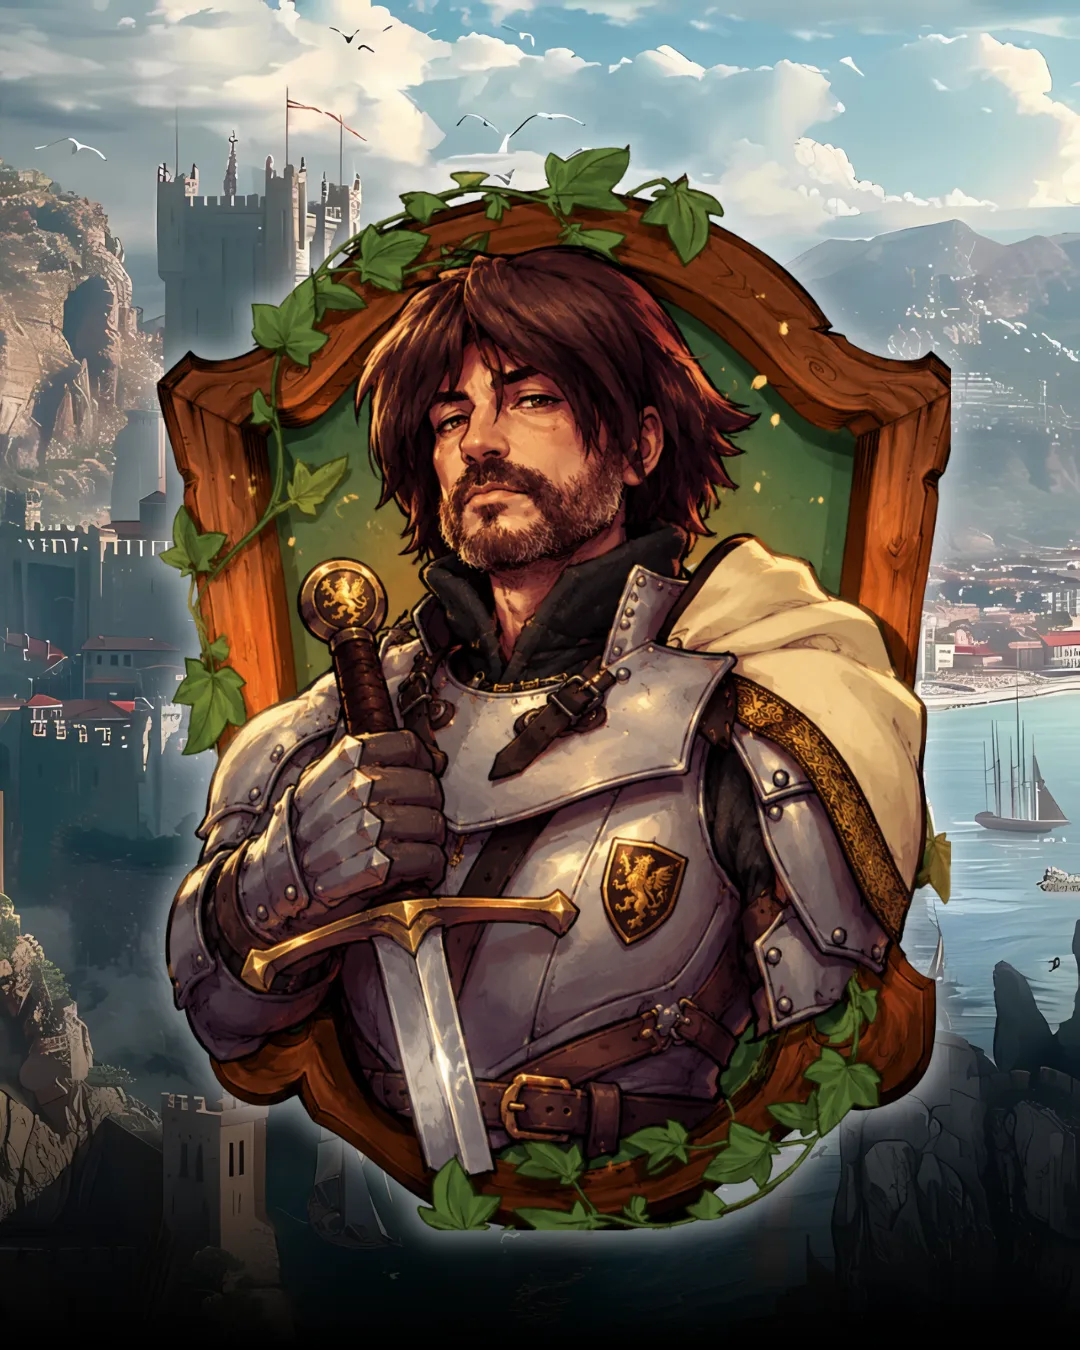
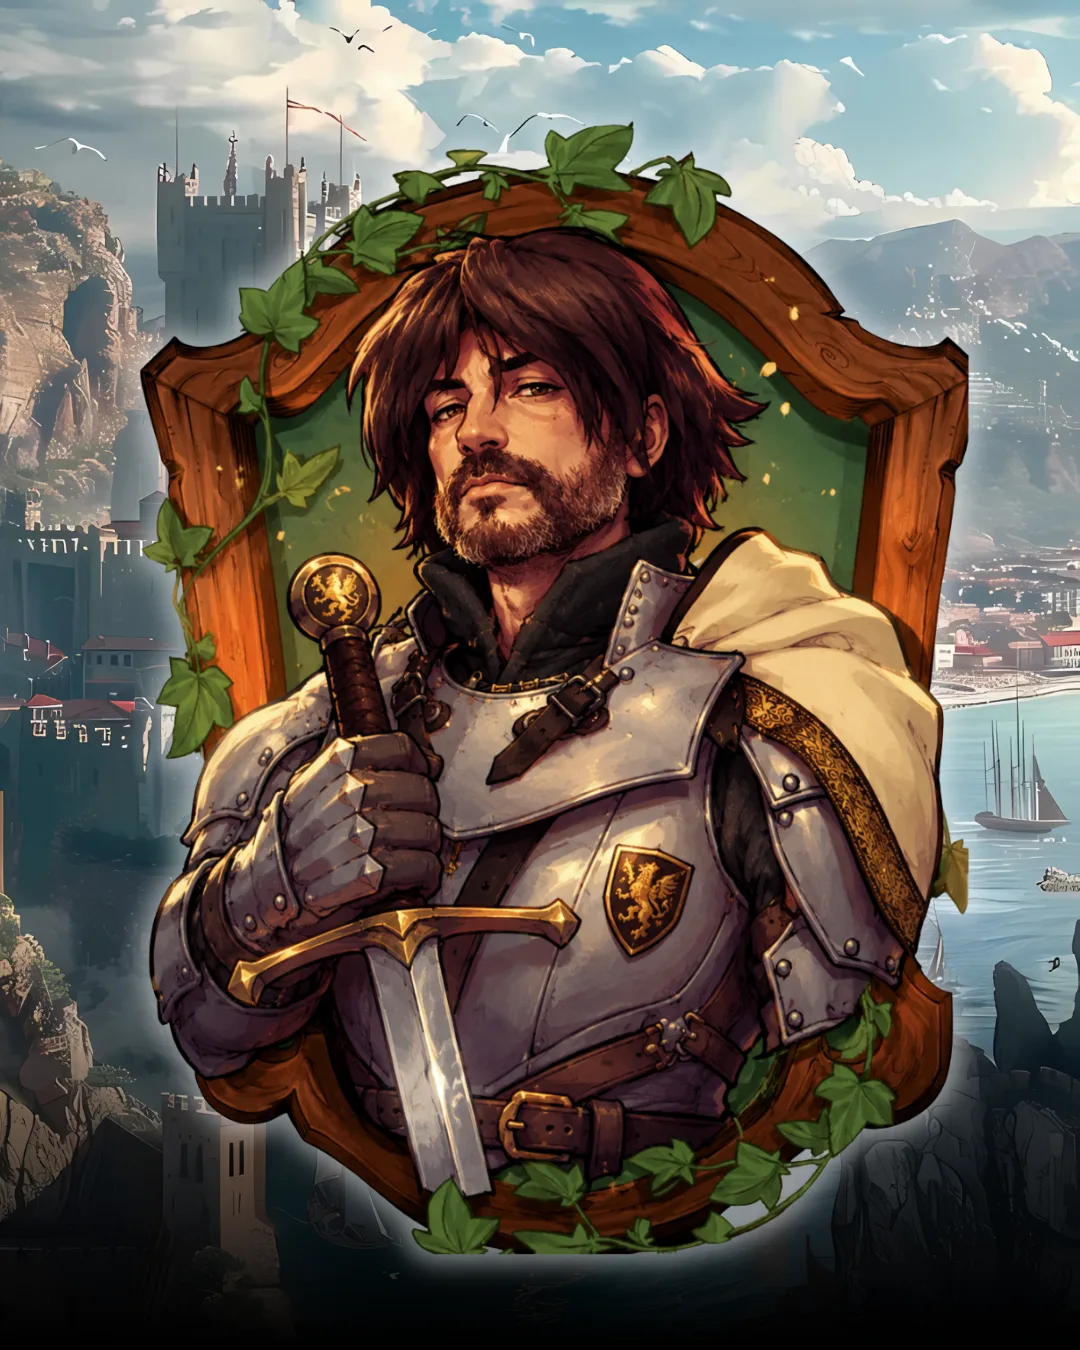
add switch theme

diff --git a/css/styles.css b/css/styles.css
@@ -3,6 +3,7 @@
 
 /* ===== Design tokens — tema light "pergamena" ===== */
 :root {
+  color-scheme: light;
   --bg: #f6f1e7;
   --surface: #fffdf8;
   --surface-2: #f1eadb;
@@ -15,7 +16,34 @@
   --accent-soft: rgba(245, 73, 0, 0.1);
   --shadow-sm: 0 2px 8px rgba(59, 47, 36, 0.07);
   --shadow-md: 0 10px 28px rgba(59, 47, 36, 0.13);
+  /* superfici "vetro" semitrasparenti (card descrizione, frecce, toggle) */
+  --glass: rgba(255, 253, 248, 0.85);
+  --glass-strong: rgba(255, 253, 248, 0.92);
+  --glass-border: rgba(255, 255, 255, 0.65);
+  /* dissolvenza dell'hero verso il colore pagina */
+  --hero-fade: rgba(246, 241, 231, 0.55);
   --ease-spring: cubic-bezier(0.2, 0.8, 0.2, 1);
+}
+
+/* ===== Design tokens — tema dark "taverna" ===== */
+[data-theme="dark"] {
+  color-scheme: dark;
+  --bg: #1d1812;
+  --surface: #28211a;
+  --surface-2: #322a20;
+  --border: #443928;
+  --border-strong: #5a4b33;
+  --text: #ece3d3;
+  --muted: #a8987f;
+  --accent: #ff5a14;
+  --accent-deep: #ff7a3d;
+  --accent-soft: rgba(255, 90, 20, 0.14);
+  --shadow-sm: 0 2px 8px rgba(0, 0, 0, 0.35);
+  --shadow-md: 0 10px 28px rgba(0, 0, 0, 0.5);
+  --glass: rgba(40, 33, 26, 0.85);
+  --glass-strong: rgba(40, 33, 26, 0.92);
+  --glass-border: rgba(255, 255, 255, 0.12);
+  --hero-fade: rgba(29, 24, 18, 0.6);
 }
 
 /* Reset */
@@ -154,6 +182,9 @@ html {
 
 body {
   background: var(--bg);
+  transition:
+    background-color 0.3s ease,
+    color 0.3s ease;
 }
 
 body,
@@ -232,6 +263,41 @@ h6 {
   transform: none;
 }
 
+/* ===== Toggle tema light/dark (ancorato all'header) ===== */
+.theme-toggle {
+  position: absolute;
+  top: 14px;
+  right: 14px;
+  z-index: 3; /* sopra immagine, velo e .inner dell'header */
+  width: 42px;
+  height: 42px;
+  border-radius: 50%;
+  border: 1px solid var(--border);
+  background: var(--glass-strong);
+  -webkit-backdrop-filter: blur(8px);
+  backdrop-filter: blur(8px);
+  color: var(--text);
+  line-height: 1;
+  cursor: pointer;
+  box-shadow: var(--shadow-sm);
+  transition:
+    transform 0.2s var(--ease-spring),
+    border-color 0.2s ease,
+    background-color 0.3s ease;
+}
+.theme-toggle .icon:before {
+  font-size: 16px;
+  color: var(--accent);
+}
+.theme-toggle:hover,
+.theme-toggle:focus-visible {
+  border-color: rgba(245, 73, 0, 0.5);
+  transform: scale(1.1) rotate(15deg);
+}
+.theme-toggle:active {
+  transform: scale(0.94);
+}
+
 /* ===== Hero header (a tutta larghezza, sfuma nella pagina) ===== */
 #header {
   position: relative;
@@ -263,7 +329,7 @@ h6 {
     to bottom,
     rgba(31, 24, 21, 0.35) 0%,
     rgba(31, 24, 21, 0.15) 45%,
-    rgba(246, 241, 231, 0.55) 82%,
+    var(--hero-fade) 82%,
     var(--bg) 100%
   );
   z-index: 1;
@@ -310,10 +376,10 @@ h6 {
   margin: 1.6em auto 0;
   max-width: 38em;
   color: var(--text);
-  background: rgba(255, 253, 248, 0.85);
+  background: var(--glass);
   -webkit-backdrop-filter: blur(10px);
   backdrop-filter: blur(10px);
-  border: 1px solid rgba(255, 255, 255, 0.65);
+  border: 1px solid var(--glass-border);
   border-radius: 16px;
   padding: 1.1em 1.4em;
   box-shadow: var(--shadow-md);
@@ -398,7 +464,9 @@ ul.actions li .icon:before {
 
 @media (min-width: 737px) {
   ul.actions {
-    grid-template-columns: 1fr 1fr;
+    /* minmax(0, …) ignora il min-content dei testi nowrap: colonne sempre
+       della stessa larghezza, il testo in eccesso va in ellipsis */
+    grid-template-columns: minmax(0, 1fr) minmax(0, 1fr);
   }
   ul.actions hr {
     grid-column: 1 / -1;
@@ -416,6 +484,10 @@ ul.actions li .icon:before {
   }
   /* un bottone rimasto solo dopo un separatore occupa tutta la riga */
   ul.actions hr + li:last-child {
+    grid-column: 1 / -1;
+  }
+  /* il bottone "Installa l'App" occupa sempre tutta la riga */
+  ul.actions #installBtn {
     grid-column: 1 / -1;
   }
 }
@@ -850,7 +922,7 @@ ul.actions li .icon:before {
   height: 40px;
   border-radius: 50%;
   border: 1px solid var(--border);
-  background: rgba(255, 253, 248, 0.92);
+  background: var(--glass-strong);
   color: var(--text);
   line-height: 1;
   cursor: pointer;
@@ -1295,6 +1367,17 @@ hr {
   /* il PNG ha fondo bianco: multiply lo fonde con la pergamena */
   mix-blend-mode: multiply;
 }
+/* in dark si usa la variante bianca del logo (su fondo trasparente) */
+.arcana-logo--dark {
+  display: none;
+  mix-blend-mode: normal;
+}
+[data-theme="dark"] .arcana-logo--light {
+  display: none;
+}
+[data-theme="dark"] .arcana-logo--dark {
+  display: block;
+}
 .arcana-tagline {
   display: flex;
   align-items: center;
@@ -1327,8 +1410,10 @@ hr {
 }
 
 /* ===== Desktop: sidebar fissa a sinistra, contenuto a destra =====
-   Così bottoni e fazioni sono visibili subito, senza scroll. */
-@media (min-width: 981px) {
+   Così bottoni e fazioni sono visibili subito, senza scroll.
+   Da 1100px in su: iPad Pro in verticale (1024px) usa il layout mobile,
+   in orizzontale (1366px) quello desktop. */
+@media (min-width: 1100px) {
   #header {
     position: fixed;
     top: 0;

diff --git a/index.html b/index.html
@@ -7,6 +7,19 @@
     <meta charset="utf-8" />
     <meta name="viewport" content="width=device-width, initial-scale=1" />
 
+    <!-- tema: applicato prima del paint per evitare flash del tema sbagliato -->
+    <script>
+      (function () {
+        var theme = localStorage.getItem("theme");
+        if (theme !== "light" && theme !== "dark") {
+          theme = window.matchMedia("(prefers-color-scheme: dark)").matches
+            ? "dark"
+            : "light";
+        }
+        document.documentElement.dataset.theme = theme;
+      })();
+    </script>
+
     <!-- style -->
     <link rel="preconnect" href="https://fonts.googleapis.com" />
     <link rel="preconnect" href="https://fonts.gstatic.com" crossorigin />
@@ -117,6 +130,14 @@
   </head>
   <body>
     <header id="header">
+      <button
+        id="themeToggle"
+        class="theme-toggle"
+        type="button"
+        aria-label="Cambia tema"
+      >
+        <span class="icon solid fa-moon"></span>
+      </button>
       <div class="inner">
         <div class="image logo">
           <img src="./images/avatar.png" alt="Rhymil – Una Nuova Era" />
@@ -363,9 +384,15 @@
             <h3 class="panel-title">ℹ️ Arcana Domine</h3>
             <div class="arcana-hero">
               <img
-                class="arcana-logo"
+                class="arcana-logo arcana-logo--light"
                 src="./images/ad_logoB.png"
                 alt="Logo Arcana Domine"
+              />
+              <img
+                class="arcana-logo arcana-logo--dark"
+                src="./images/ad_logoW.png"
+                alt="Logo Arcana Domine"
+                loading="lazy"
               />
               <p class="arcana-tagline">Gioco di Ruolo dal Vivo</p>
             </div>
@@ -808,9 +835,14 @@
     <img src="/rhymil_images/_thumb/cavalieri_thalion.webp?v=e6c94c6b" width="110" alt="Thalion Dirk" loading="lazy" />
   </a>
 
-  <a class="is-dead" href="/rhymil_images/_large/cavalieri_alexander.webp?v=e32c9462" title="Alexander" data-name="Alexander" data-owner="Master Lorenzo" data-desc="Capitano">
+  <a class="is-dead" href="/rhymil_images/_large/cavalieri_alexander.webp?v=bcff6f0e" title="Alexander" data-name="Alexander" data-owner="Master Lorenzo" data-desc="Capitano">
     <span class="thumb-name">Alexander</span>
-    <img src="/rhymil_images/_thumb/cavalieri_alexander.webp?v=36e25068" width="110" alt="Alexander" loading="lazy" />
+    <img src="/rhymil_images/_thumb/cavalieri_alexander.webp?v=bf8abac2" width="110" alt="Alexander" loading="lazy" />
+  </a>
+
+  <a class="is-dead" href="/rhymil_images/_large/cavalieri_leonard.webp?v=b87c2295" title="Leonard" data-name="Leonard" data-owner="Master Davide" data-desc="Primo Capo">
+    <span class="thumb-name">Leonard</span>
+    <img src="/rhymil_images/_thumb/cavalieri_leonard.webp?v=87f6a63e" width="110" alt="Leonard" loading="lazy" />
   </a>
     </div>
   </section>

diff --git a/js/app.js b/js/app.js
@@ -5,6 +5,33 @@ if ("serviceWorker" in navigator) {
   navigator.serviceWorker.register("js/sw.js").catch(console.error);
 }
 
+/* -------------------------- Tema light/dark ------------------------- */
+// il tema iniziale è già applicato da uno script inline nell'<head>
+// (localStorage o prefers-color-scheme) per evitare flash al caricamento
+const themeToggle = document.getElementById("themeToggle");
+const themeColorMeta = document.querySelector('meta[name="theme-color"]');
+
+function applyTheme(theme) {
+  document.documentElement.dataset.theme = theme;
+  themeColorMeta.content = theme === "dark" ? "#1d1812" : "#f6f1e7";
+  const icon = themeToggle.querySelector(".icon");
+  icon.classList.toggle("fa-moon", theme !== "dark");
+  icon.classList.toggle("fa-sun", theme === "dark");
+  themeToggle.setAttribute(
+    "aria-label",
+    theme === "dark" ? "Passa al tema chiaro" : "Passa al tema scuro",
+  );
+}
+
+applyTheme(document.documentElement.dataset.theme || "light");
+
+themeToggle.addEventListener("click", () => {
+  const next =
+    document.documentElement.dataset.theme === "dark" ? "light" : "dark";
+  localStorage.setItem("theme", next);
+  applyTheme(next);
+});
+
 /* ----------------------- PWA install: bottone ----------------------- */
 const installBtn = document.getElementById("installBtn");
 